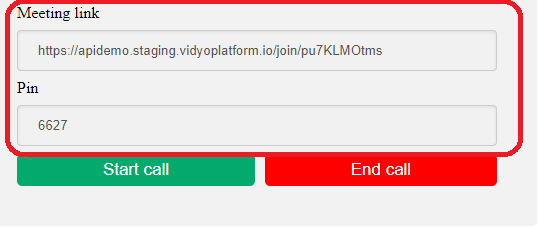
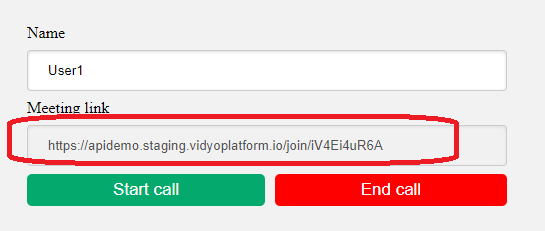
updated getting started sample by removing pin requirement

Changed region(s): [[0.0, 0.0, 0.9778, 0.9211]]

diff --git a/main.js b/main.js
@@ -1,7 +1,6 @@
 // declare global variables
 let vidyoConnector = null;
 let meetingLink = document.getElementById('meetingLink');
-let pin = document.getElementById('pin');
 let name = document.getElementById('name');
 
 function onVidyoClientLoaded() {
@@ -44,7 +43,6 @@ async function joinCall() {
             onSuccess: () => {
                 console.log(`vidyoConnector.ConnectToRoomAsGuest : onSuccess callback received`);
                 meetingLink.value = res.roomUrl;
-                pin.value = res.pin;
             },
             onFailure: (reason) => {
                 console.error("vidyoConnector.Connect : onFailure callback received", reason);
@@ -61,5 +59,4 @@ async function joinCall() {
 function endCall() {
     vidyoConnector.Disconnect();
     meetingLink.value = '';
-    pin.value = '';
 }

diff --git a/index.html b/index.html
@@ -14,8 +14,6 @@
 		<input type="text" id="name" value="User1" size="20">
 		<label>Meeting link</label>
 		<input type="text" id="meetingLink" size="50" disabled>
-		<label>Pin</label>
-		<input type="text" id="pin" size="6" disabled>
 		<div class="buttons">
 			<button onclick="joinCall()" class="btnstart">Start call</button>
 			<button onclick="endCall()" class="btnend">End call</button>

diff --git a/README.md b/README.md
@@ -48,28 +48,14 @@ Do the following from a terminal window:
 ![Alt text](startCall.png?raw=true)
 
 
-7. After a call is started, a meeting link and PIN are generated. This link and PIN can be shared with others who can join your call from their browser using the link.
+7. After a call is started, a meeting link is generated. This link can be shared with others who can join your call from their browser using the link.
 
 ![Alt text](meetingLink.png?raw=true)
 
 <p align="right">(<a href="#top">back to top</a>)</p>
 
 
-<!-- CONTRIBUTING -->
-# Contributing
 
-Contributions are what make the open source community such an amazing place to learn, inspire, and create. Any contributions you make are **greatly appreciated**.
-
-If you have a suggestion that would make this better, please fork the repo and create a pull request. You can also simply open an issue with the tag "enhancement".
-Don't forget to give the project a star! Thanks again!
-
-1. Fork the Project
-2. Create your Feature Branch (`git checkout -b feature/AmazingFeature`)
-3. Commit your Changes (`git commit -m 'Add some AmazingFeature'`)
-4. Push to the Branch (`git push origin feature/AmazingFeature`)
-5. Open a Pull Request
-
-<p align="right">(<a href="#top">back to top</a>)</p>
 
 <!-- LICENSE -->
 # License
